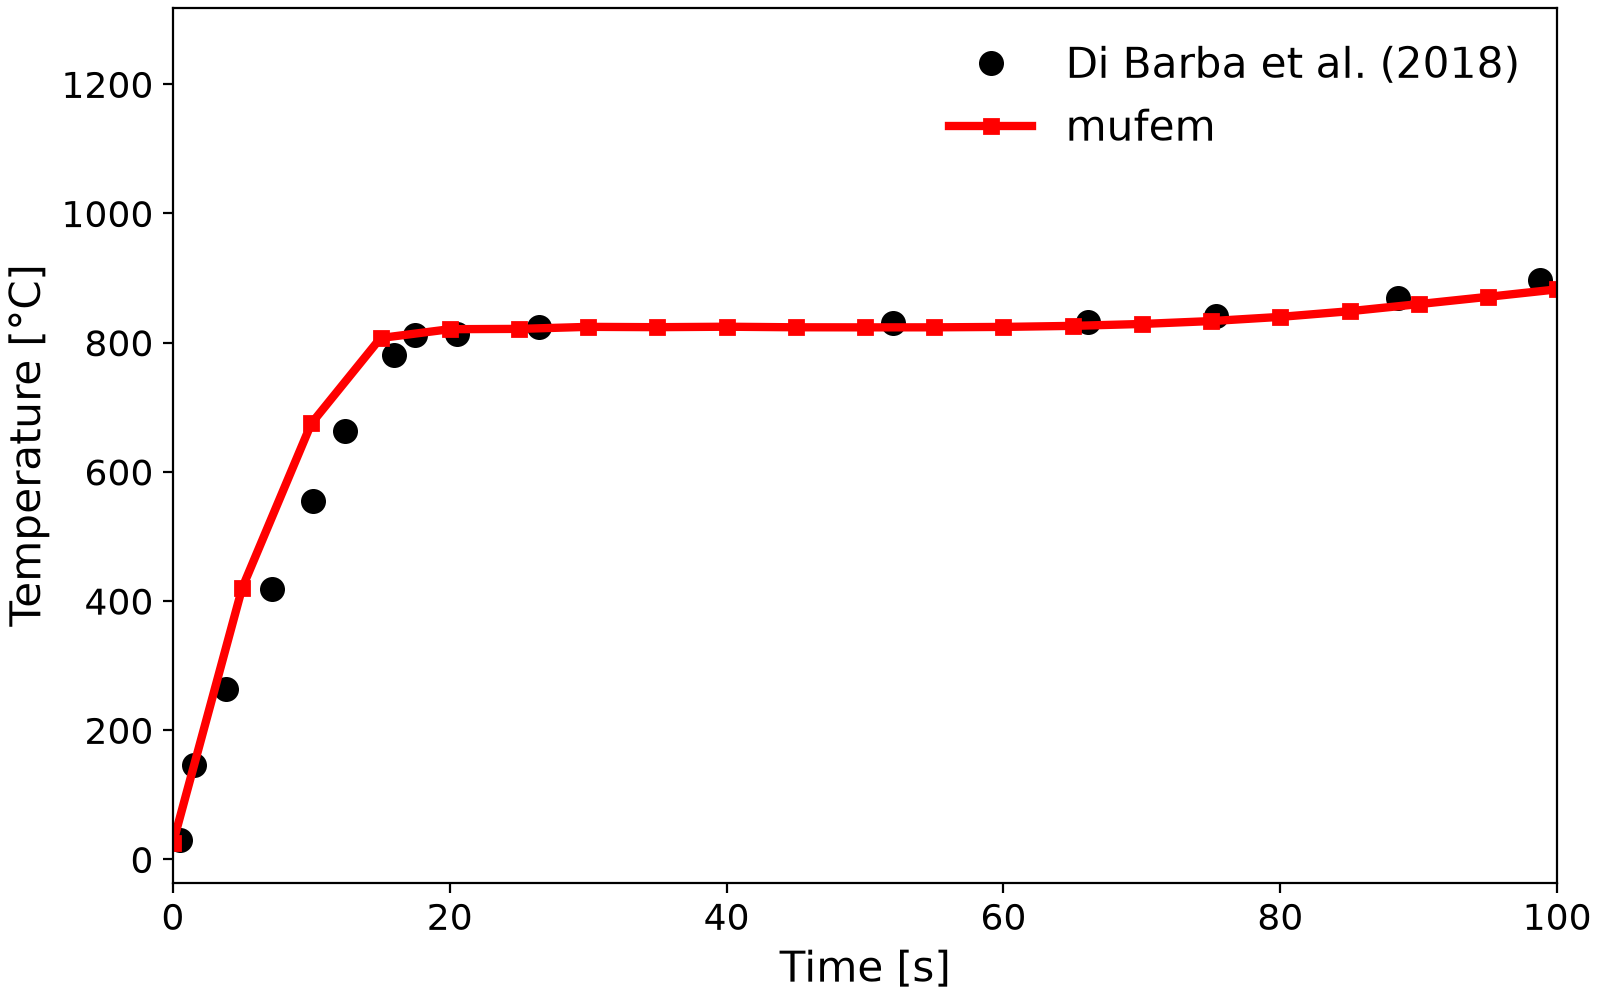
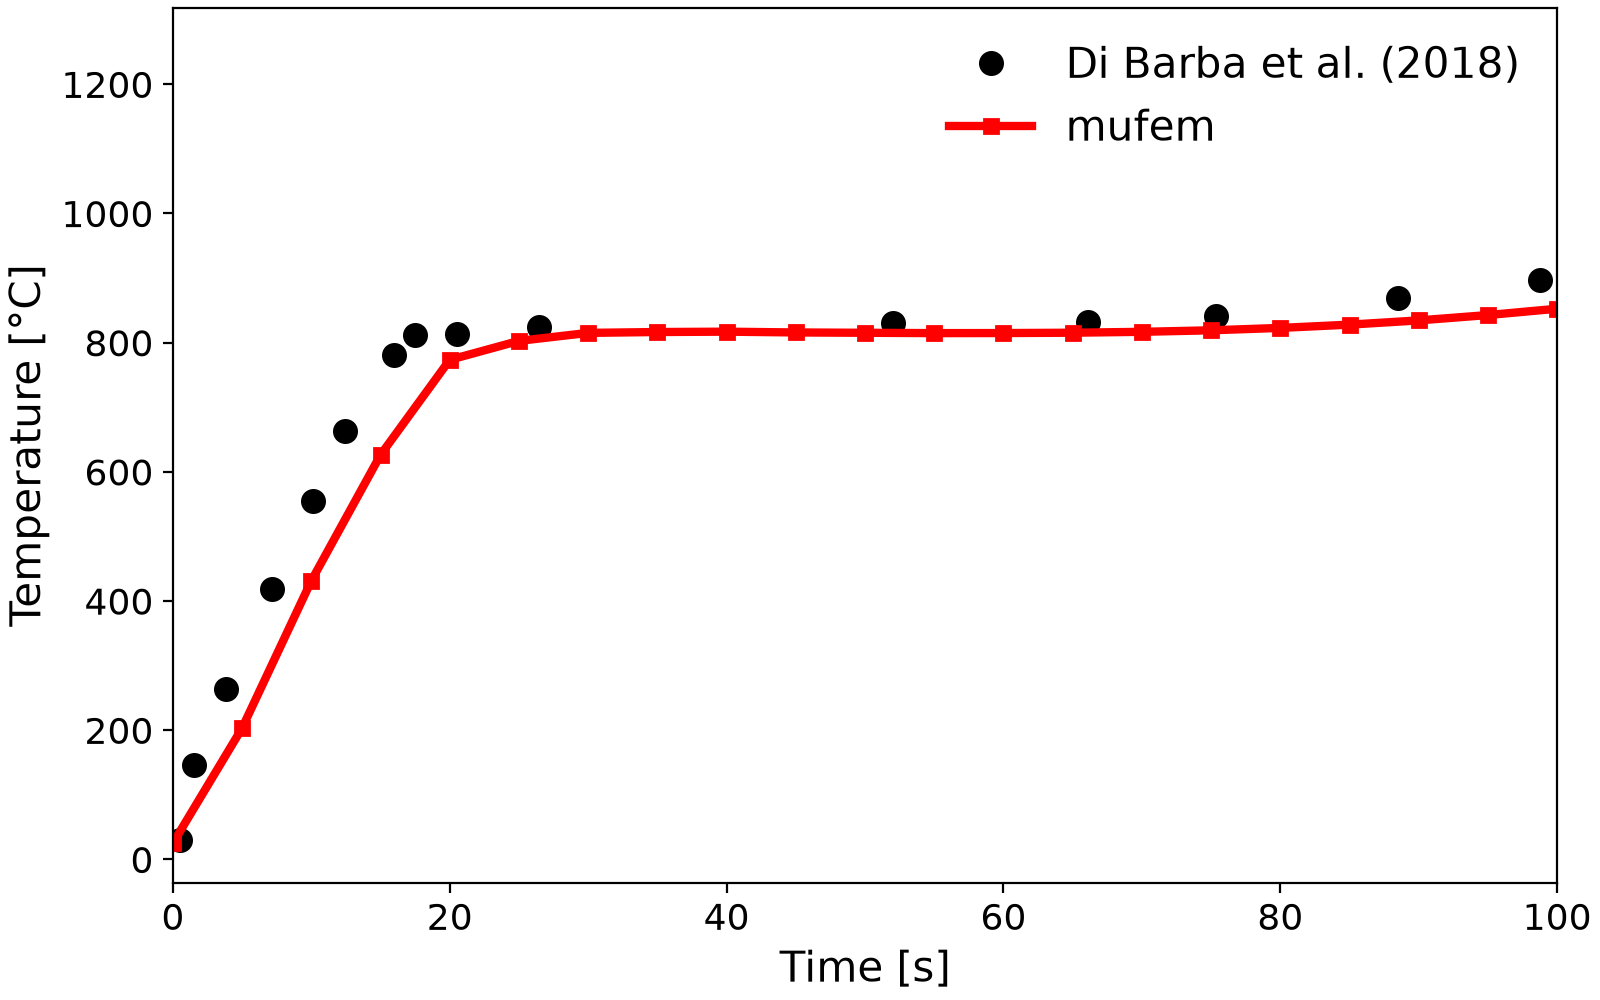
Drop the workarounds for the closed-coil direction and point-probe bugs, and update Team36 to the fixed temperature-table conductivity

Changed region(s): [[0.2188, 0.279, 1.0, 0.434], [0.0938, 0.465, 0.2188, 0.837], [0.1875, 0.372, 0.25, 0.496]]

diff --git a/Electromagnetics/Compumag-Team7-Asymmetrical-Conductor-with-a-Hole/case.py b/Electromagnetics/Compumag-Team7-Asymmetrical-Conductor-with-a-Hole/case.py
@@ -113,9 +113,8 @@ class Team7AsymmetricalConductor(ValidationCase):
         coil_model = ExcitationCoilModel()
         sim.get_model_manager().add_model(coil_model)
 
-        # 2742 ampere turns (peak), maximum at wt = 0. The current runs against the given
-        # direction, i.e. clockwise seen from +z instead of anticlockwise as in the
-        # TEAM 7 description; the probes below flip the sign of the field to compensate.
+        # 2742 ampere turns (peak), maximum at wt = 0, flowing in +x at (0.2, 0.01, 0.07),
+        # i.e. anticlockwise seen from +z as in the TEAM 7 description.
         coil_topology = CoilTopologyClosed(x=0.2, y=0.01, z=0.07, dx=1.0, dy=0.0, dz=0.0)
         coil_type = CoilTypeStranded(number_of_turns=2742)
         coil_excitation = CoilExcitationCurrent(current=(1.0, 0))
@@ -155,13 +154,13 @@ class Team7AsymmetricalConductor(ValidationCase):
         """B_z [mT] on A1-B1 and A2-B2, and J_y [A/mm^2] just below the top surface of the plate.
 
         The real and imaginary parts compare with the measured values at wt = 0 and 90 deg:
-        -conj(B_z) for the flux density (the minus sign undoes the reversed coil current), and
-        1j * J_y for the eddy current density, as in the NGSolve TEAM-7 reference.
+        conj(B_z) for the flux density, and -1j * J_y for the eddy current density, as in the
+        NGSolve TEAM-7 reference.
         """
         x_values = numpy.linspace(0.0, 0.288, 97)
         lines = {
             name: [
-                (1e3 * x, -1e3 * numpy.conj(self.probe("Magnetic Flux Density", x, y, 0.034)[2]))
+                (1e3 * x, 1e3 * numpy.conj(self.probe("Magnetic Flux Density", x, y, 0.034)[2]))
                 for x in x_values
             ]
             for name, y in self.flux_density_lines
@@ -173,7 +172,7 @@ class Team7AsymmetricalConductor(ValidationCase):
             ([eps], numpy.linspace(0.003, 0.018 - eps, 6), numpy.linspace(0.126 + eps, 0.288, 55))
         )
         lines["Top"] = [
-            (1e3 * x, 1e-6 * 1j * self.probe("Electric Current Density", x, 0.072, 0.019 - eps)[1])
+            (1e3 * x, -1e-6j * self.probe("Electric Current Density", x, 0.072, 0.019 - eps)[1])
             for x in x_plate
         ]
         return lines

diff --git a/Thermal/Guenin_2011_Heat_Transfer_Electronic_Design/case.py b/Thermal/Guenin_2011_Heat_Transfer_Electronic_Design/case.py
@@ -164,18 +164,12 @@ class Guenin2011ElectronicDesign(ValidationCase):
         }
 
         # At t = 10 s the package is within 0.1 % of its steady state.
-        die_rise = self.report_die.evaluate() - 273.15
-
-        # The single-point probe in the die returns 0 on some mesh partitionings
-        # (e.g. 12 or 16 MPI ranks); a known mufem bug, so warn instead of failing.
-        if die_rise == -273.15:
-            if self.is_main():
-                print(
-                    "Warning: the die temperature probe returned 0 K, a known point probe "
-                    "bug on some mesh partitionings; the die temperature is not checked."
-                )
-        else:
-            expect(die_rise, steady_rise["die"], rel_tol=1e-2, label="die temperature rise [K]")
+        expect(
+            self.report_die.evaluate() - 273.15,
+            steady_rise["die"],
+            rel_tol=1e-2,
+            label="die temperature rise [K]",
+        )
         expect(
             self.report_lid.evaluate() - 273.15,
             steady_rise["lid"],
@@ -186,8 +180,6 @@ class Guenin2011ElectronicDesign(ValidationCase):
         # Transient: temperature rise at t = 1 s against Fig. 3.3 of Li (2020).
         for monitor, name in [(self.monitor_die, "Die"), (self.monitor_lid, "Lid")]:
             time, temperature = numpy.array(monitor.get_values()).T
-            if name == "Die" and temperature[-1] == 0.0:
-                continue
             ref_t, ref_T = numpy.loadtxt(
                 self.dir_path / "data" / f"{name}_Temperature_Reference.csv",
                 delimiter=",",

diff --git a/Electromagnetics/Compumag-Team36-Induction-Heating-Device/README.md b/Electromagnetics/Compumag-Team36-Induction-Heating-Device/README.md
@@ -80,14 +80,15 @@ of the billet in the mid-plane with Fig. 8a of [2], and the total ohmic heating 
 
 The two-way coupling is active: as the steel approaches the Curie point its permeability collapses,
 which reshapes the ohmic heating (a peak followed by decay) and in turn the temperature. In mufem the
-peak (about $`480\,\mathrm{kW}`$ near $`t = 10\,\mathrm{s}`$) comes earlier and is higher than in the reference
-($`358\,\mathrm{kW}`$ at $`t = 18\,\mathrm{s}`$); from about $`20\,\mathrm{s}`$ on the heating power agrees well.
-The temperatures follow the reference closely, with the surface plateau near the Curie point at about
-$`825\,{}^{\circ}\mathrm{C}`$ in both:
+peak (about $`414\,\mathrm{kW}`$ at $`t = 20\,\mathrm{s}`$, sampled with the $`5\,\mathrm{s}`$ time step) is higher than
+in the reference ($`358\,\mathrm{kW}`$ at $`t = 18\,\mathrm{s}`$); from about $`45\,\mathrm{s}`$ on the heating power agrees well.
+The temperatures follow the reference but stay somewhat below it: during the first $`20\,\mathrm{s}`$ the
+surface temperature trails the reference by a few seconds, and its plateau near the Curie point lies at
+about $`815\,{}^{\circ}\mathrm{C}`$ against $`825\,{}^{\circ}\mathrm{C}`$ in the reference:
 
 | Time | Temperature on the axis mufem / reference [°C] | Temperature at the surface mufem / reference [°C] |
 | ---- | ---------------------------------------------- | ------------------------------------------------- |
-| 100 s | 799 / 811.5                                   | 882 / 899.2                                       |
+| 100 s | 774 / 811.5                                   | 852 / 899.2                                       |
 
 The case checks both temperatures at $`t = 100\,\mathrm{s}`$ against the reference.
 

diff --git a/Electromagnetics/Compumag-Team7-Asymmetrical-Conductor-with-a-Hole/README.md b/Electromagnetics/Compumag-Team7-Asymmetrical-Conductor-with-a-Hole/README.md
@@ -72,8 +72,8 @@ coil = CoilSpecification(
 )
 ```
 
-With this direction the current flows clockwise seen from $`+z`$, opposite to [1]; the case flips
-the sign of the computed fields to compensate.
+At the point $`(0.2, 0.01, 0.07)\,\mathrm{m}`$, inside the coil, the current flows in $`+x`$, i.e.
+anticlockwise seen from $`+z`$ as in [1].
 
 ## Running
 
@@ -122,7 +122,7 @@ overestimates by about $`0.25\,\mathrm{mT}`$ above the coil.
 The eddy current density data of [2] cannot be used as printed. Following the NGSolve TEAM-7
 reference [3], $`J_y`$ just below the top surface of the plate ($`z = 19\,\mathrm{mm}`$) matches
 Table 5(b) of [2], which is labeled as line A4-B4 at the bottom surface ($`z = 0`$), after a phase
-shift of $`90°`$ relative to the convention of $`B_z`$ (the plots show $`j J_y`$). With this, mufem
+shift of $`90°`$ relative to the convention of $`B_z`$ (the plots show $`-j J_y`$). With this, mufem
 agrees within 4.6 % ($`50\,\mathrm{Hz}`$) and 4.4 % ($`200\,\mathrm{Hz}`$), relative $`L_2`$ over the 12
 measured points. Table 5(a), labeled A3-B3, matches the bottom surface the same way, but its values
 are shifted by one measurement position from $`x = 18\,\mathrm{mm}`$ on. The eddy current density is
